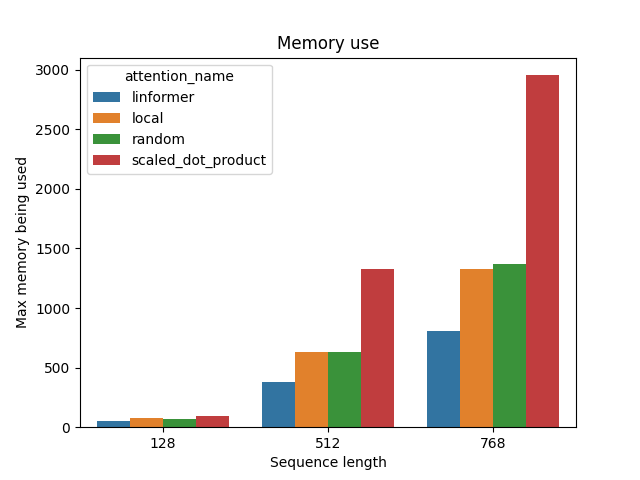
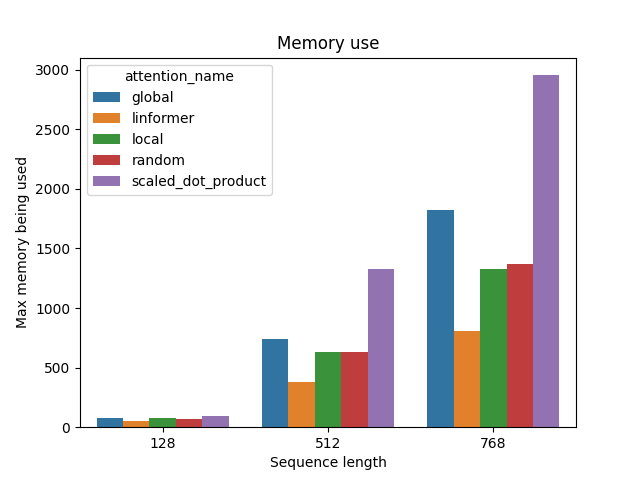
[feat] Global Attention (#30)
* Adding a global attention, reusing the sparse attention mechanism
* renaming the global attention file, some fixes
* better unit testing, rebasing
* changing the global attention ratio in the benchmark to make sure that sparse implementation is triggered
* rebase, update the benchmark and the graphs

diff --git a/xformers/components/attention/global_tokens.py b/xformers/components/attention/global_tokens.py
@@ -1,0 +1,99 @@
+from dataclasses import dataclass
+from typing import Optional
+
+import torch
+import torch.nn as nn
+
+from xformers.components.attention import (
+    _DENSITY_THRESHOLD,
+    Attention,
+    AttentionConfig,
+    register_attention,
+)
+from xformers.components.attention.core import scaled_dot_product_attention
+
+
+@dataclass(init=False)
+class GlobalAttentionConfig(AttentionConfig):
+    attention_query_mask: torch.Tensor  # Mark the queries which have global attention
+
+
+@register_attention("global")
+class GlobalAttention(Attention):
+    def __init__(
+        self, dropout: float, attention_query_mask: torch.Tensor, *args, **kwargs
+    ):
+        """
+        "Global" attention, as proposed for instance in _BigBird or _Longformer.
+
+        Global means in that case that the queries positively labelled in the `attention_query_mask` can attend
+        to all the other queries. The queries negatively labelled in the `attention_query_mask`cannot attend to
+        any other query.
+
+        This implementation is sparse-aware, meaning that the empty attention parts will not be represented in memory.
+
+        Args:
+            dropout (float): probability of an element to be zeroed
+            attention_mask (torch.Tensor): if true, this query can attend to all the others
+
+        _BigBird: "Zaheer, M., Guruganesh, G., Dubey, A., Ainslie, J., Alberti, C., Ontanon, S., Pham, P., Ravula,
+         A., Wang, Q., Yang, L., & Ahmed, A. (2020). Big Bird: Transformers for Longer Sequences"
+
+        _Longformer: "Beltagy, I., Peters, M. E., & Cohan, A. (2020). Longformer: The Long-Document Transformer"
+        """
+        super().__init__()
+
+        assert attention_query_mask.dtype == torch.bool, "A boolean mask is expected"
+        assert (
+            attention_query_mask.shape[1] == 1
+            and attention_query_mask.shape[0] > attention_query_mask.shape[1]
+        ), "A N x 1 query mask is expected"
+
+        self.attn_drop = nn.Dropout(dropout, inplace=False)
+        self.attention_mask = attention_query_mask | attention_query_mask.transpose(
+            1, 0
+        )
+
+        # Sparsity threshold, below which having a sparse matrix is more efficient
+        if (
+            torch.count_nonzero(self.attention_mask) / self.attention_mask.numel()
+            < _DENSITY_THRESHOLD
+        ):
+            self.attention_mask = self.attention_mask.to_sparse()
+
+    def _adapt_mask_to_batch(self, q: torch.Tensor):
+        # Make sure that the mask is on the right device, and has the right dimensions
+        if self.attention_mask.device != q.device:
+            self.attention_mask = self.attention_mask.to(q.device)
+
+        # Handle the batch dimension without duplicating memory.
+        # Only needed in the sparse case for now,the dense case broadcasts
+        if self.attention_mask.ndim != q.ndim and self.attention_mask.is_sparse:
+            # FIXME: @lefaudeux this takes space in memory and is not really useful all things considered
+            self.attention_mask = (
+                self.attention_mask.to_dense().expand(q.shape[0], -1, -1).to_sparse()
+            )
+
+    def forward(
+        self,
+        q: torch.Tensor,
+        k: torch.Tensor,
+        v: torch.Tensor,
+        att_mask: Optional[torch.Tensor] = None,
+        *args,
+        **kwargs
+    ):
+        self._adapt_mask_to_batch(q)
+
+        # Mask-aware attention
+        mask = (
+            self.attention_mask if att_mask is None else self.attention_mask & att_mask
+        )
+
+        return scaled_dot_product_attention(
+            q, k, v, att_mask=mask, dropout=self.attn_drop
+        )
+
+    @classmethod
+    def from_config(cls, config: AttentionConfig) -> "Attention":
+        return cls(**GlobalAttentionConfig.as_patchy_dict(config))

diff --git a/benchmarks/benchmark_encoder.py b/benchmarks/benchmark_encoder.py
@@ -17,6 +17,7 @@ from xformers.components import (
     AttentionConfig,
     MultiHeadDispatchConfig,
 )
+from xformers.components.attention import _DENSITY_THRESHOLD
 from xformers.components.feedforward import FEEDFORWARD_REGISTRY, FeedforwardConfig
 from xformers.components.positional_encoding import PositionEncodingConfig
 from xformers.factory.block_factory import xFormerEncoderBlock, xFormerEncoderConfig
@@ -24,6 +25,17 @@ from xformers.factory.block_factory import xFormerEncoderBlock, xFormerEncoderCo
 # Credits: Sean Naren
 
 _use_cuda = torch.cuda.is_available()
+GLOBAL_ATTENTION_RATIO = (
+    _DENSITY_THRESHOLD * 0.5
+)  # Make sure that we test the sparse implementation, no matter the threshold
+
+
+def _get_attention_query_mask(sequence_length: int, ratio: float):
+    mask = torch.rand((sequence_length, 1)) < ratio
+    while torch.count_nonzero(mask) / float(mask.numel()) > ratio:
+        mask = torch.rand((sequence_length, 1)) < ratio
+
+    return mask
 
 
 def _train_for_several_steps(
@@ -139,6 +151,9 @@ def instantiate_xformer(
         "dropout": attn_dropout,
         "causal": causal,
         "from_seq_dim": sequence_length,
+        "attention_query_mask": _get_attention_query_mask(
+            sequence_length, GLOBAL_ATTENTION_RATIO
+        ),
     }
 
     multi_head_config = {

diff --git a/tests/test_global_attention.py b/tests/test_global_attention.py
@@ -1,0 +1,34 @@
+import torch
+
+from xformers.components.attention import GlobalAttention, ScaledDotProduct
+
+
+def test_global_attention():
+    b, s, d = 8, 900, 384
+
+    def test_ratio(global_attention_ratio: float):
+        # Make sure that Global and Normal attention get the same results for the corresponding tokens
+        a = torch.rand(b, s, d)
+        config = {
+            "name": "global",
+            "dropout": 0.0,
+            "causal": False,
+            "from_seq_dim": s,
+            "attention_query_mask": torch.rand((s, 1)) < global_attention_ratio,
+        }
+
+        global_attention = GlobalAttention(**config)
+        sdp_attention = ScaledDotProduct(**config)
+
+        r_global = global_attention(a, a, a)
+        r_dense = sdp_attention(a, a, a)
+
+        # Check that the tokens which have access to the full attention give the same
+        # results as the monolithic dense scaled_dot_product
+        mask = config["attention_query_mask"][:, 0]
+        torch.allclose(r_global[:, mask, :], r_dense[:, mask, :])
+
+    # Test with different levels of sparsity, to make sure that all the paths are covered
+    test_ratio(0.02)
+    test_ratio(0.5)
+    test_ratio(1.0)  # All queries allowed

diff --git a/tests/test_attentions.py b/tests/test_attentions.py
@@ -5,6 +5,7 @@ from xformers.components import MultiHeadDispatch
 
 # Automatically test all the registered attentions
 from xformers.components.attention import (
+    _SPARSITY_THRESHOLD,
     ATTENTION_REGISTRY,
     AttentionConfig,
     build_attention,
@@ -13,6 +14,9 @@ from xformers.components.attention import (
 BATCH = 5
 SEQ = 1024
 MODEL = 384
+GLOBAL_ATTENTION_RATIO = (
+    _SPARSITY_THRESHOLD * 0.9
+)  # Make sure that we test the sparse implementation, no matter the threshold
 
 assert ATTENTION_REGISTRY.keys(), "Attention layers should have been registered"
 
@@ -29,12 +33,14 @@ def test_order_invariance(
     residual_dropout: float,
     causal: bool,
 ):
+
     test_config = {
         "name": attention_name,
         "dropout": attn_dropout,
         "causal": causal,
         "from_seq_dim": SEQ,
         "window_size": SEQ // 8 + 1,
+        "attention_query_mask": torch.rand((SEQ, 1)) < GLOBAL_ATTENTION_RATIO,
     }
 
     attention = build_attention(AttentionConfig(**test_config))

diff --git a/tests/test_block_factory.py b/tests/test_block_factory.py
@@ -20,6 +20,7 @@ BATCH = 20
 SEQ = 512
 MODEL = 384
 DROPOUT = 0.5
+GLOBAL_ATTENTION_RATIO = 0.1  # 10% of the tokens have a global view
 
 
 @pytest.mark.parametrize("attn_dropout", [0.0, 0.1])
@@ -45,6 +46,7 @@ def test_xformer_encoder_block(
         "causal": causal,
         "window_size": SEQ // 8 + 1,
         "from_seq_dim": SEQ,
+        "attention_query_mask": torch.rand((SEQ, 1)) < GLOBAL_ATTENTION_RATIO,
     }
 
     multi_head_config = {
@@ -103,6 +105,7 @@ def test_xformer_decoder_block(
         "causal": causal,
         "window_size": SEQ // 8 + 1,
         "from_seq_dim": SEQ,
+        "attention_query_mask": torch.rand((SEQ, 1)) < GLOBAL_ATTENTION_RATIO,
     }
 
     multi_head_config = {

diff --git a/xformers/components/attention/__init__.py b/xformers/components/attention/__init__.py
@@ -65,6 +65,7 @@ def register_attention(name):
     return register_attention_cls
 
 
+from .global_tokens import GlobalAttention  # noqa
 from .linformer import LinformerAttention  # noqa
 from .local import LocalAttention  # noqa
 from .random import RandomAttention  # noqa
@@ -75,6 +76,7 @@ __all__ = [
     "LocalAttention",
     "LinformerAttention",
     "RandomAttention",
+    "GlobalAttention",
     "Attention",
     "build_attention",
     "register_attention",
